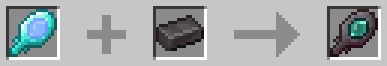
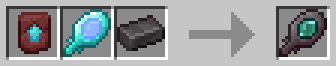
Update readme to reflect recent changes

diff --git a/README.md b/README.md
@@ -9,21 +9,21 @@ This mod requires [Fabric](https://fabricmc.net/) and the [Fabric API](https://w
 
 **Magic Mirror**
 
-![](https://github.com/AlurienFlame/Balanced-Recall/blob/master/images/magic_mirror_crafting.png)
+![Magic Mirror recipe](https://github.com/AlurienFlame/Balanced-Recall/blob/1.20/images/magic_mirror_crafting.png)
 
-Using the magic mirror will teleport you to your spawnpoint from anywhere in the same dimension. It has 256 charges, and can be recharged at a smithing table with an ender pearl. If it runs out of charges, rather than breaking, it will simply cease to function until recharged.
+Using the magic mirror will teleport you to your spawnpoint from anywhere in the same dimension. It has 256 charges, and can be repaired with an ender pearl. If it runs out of charges, rather than breaking, it will simply cease to function until recharged.
 
 
 **Dimensional Mirror**
 
-![](https://github.com/AlurienFlame/Balanced-Recall/blob/master/images/dimensional_mirror_crafting.png)
+![Dimensional Mirror recipe](https://github.com/AlurienFlame/Balanced-Recall/blob/1.20/images/dimensional_mirror_crafting.png)
 
 The dimensional mirror is identical to the magic mirror, except it has twice the charges and can travel between dimensions.
 
 
 **Sleeping Mat**
 
-![](https://github.com/AlurienFlame/Balanced-Recall/blob/master/images/sleeping_mat_crafting.png)
+![Sleeping Mat recipe](https://github.com/AlurienFlame/Balanced-Recall/blob/1.20/images/sleeping_mat_crafting.png)
 
 The sleeping mat allows you to skip the night without setting your spawn. Be warned, though, sleeping on this rough straw-padded bamboo mat is not enough to ward off phantoms. The sleeping mat has 128 uses and cannot be repaired.
 
@@ -38,4 +38,3 @@ The sleeping mat allows you to skip the night without setting your spawn. Be war
     - Set dimensional mirror use time
     - Set dimensional mirror cooldown time
     - Toggle sleeping mat resetting phantom timer
-    
